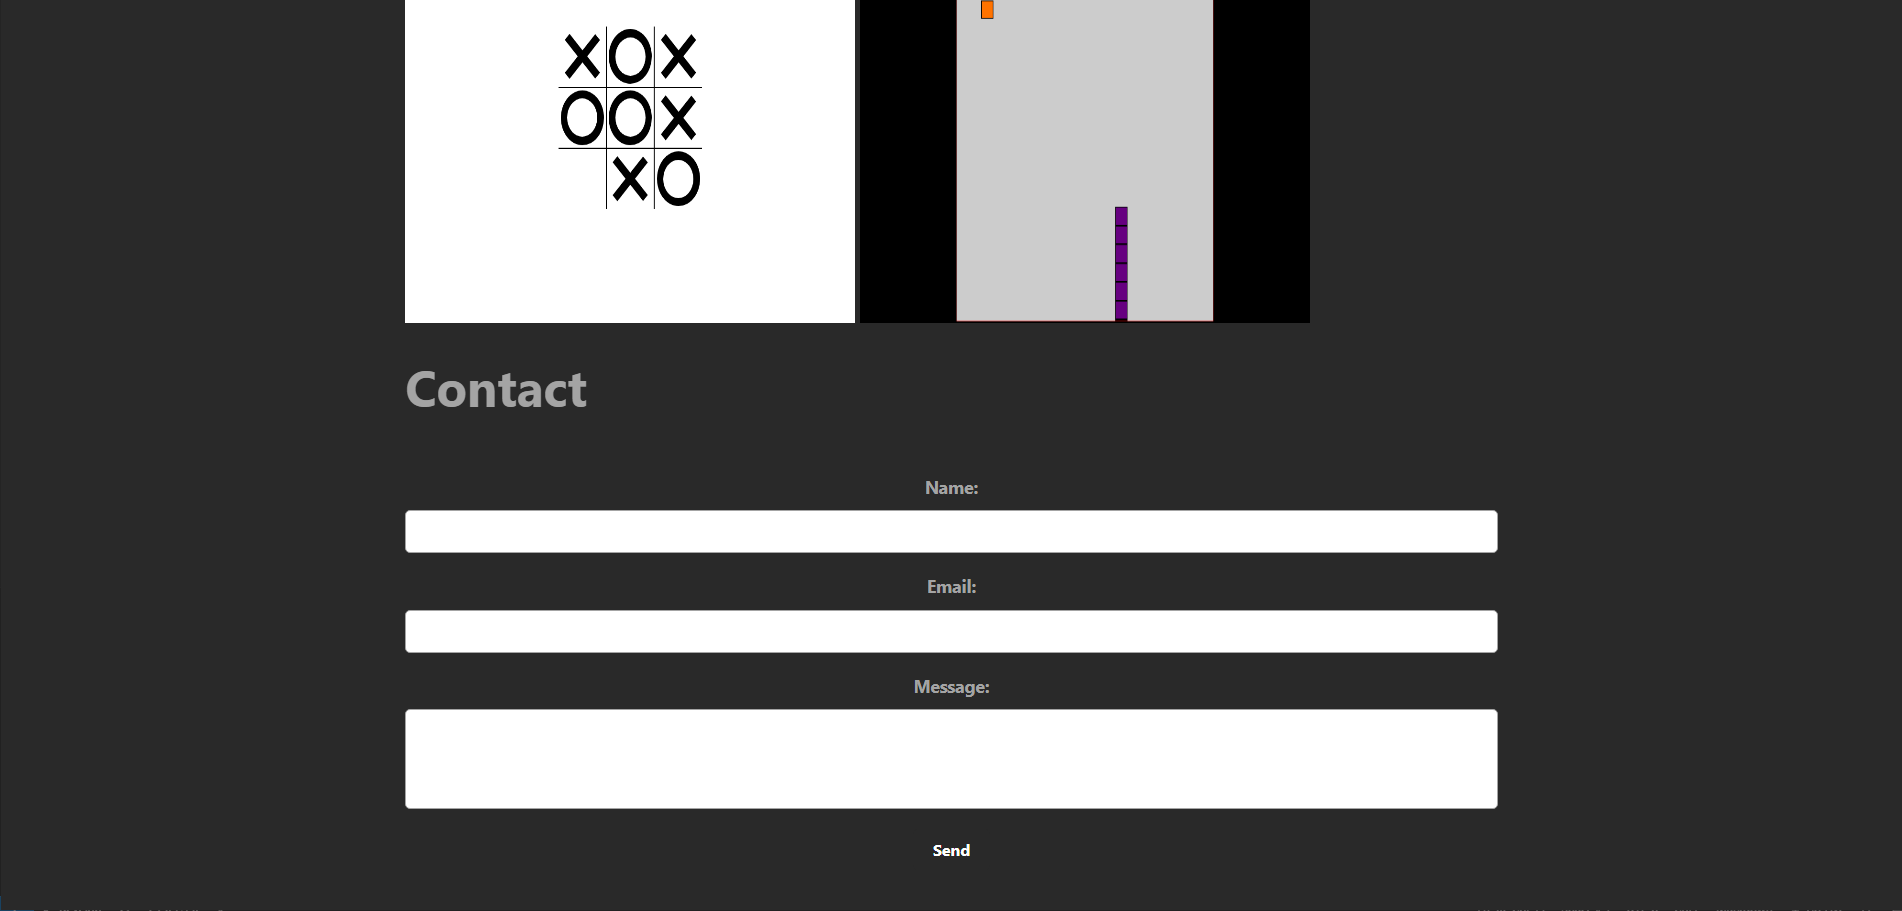
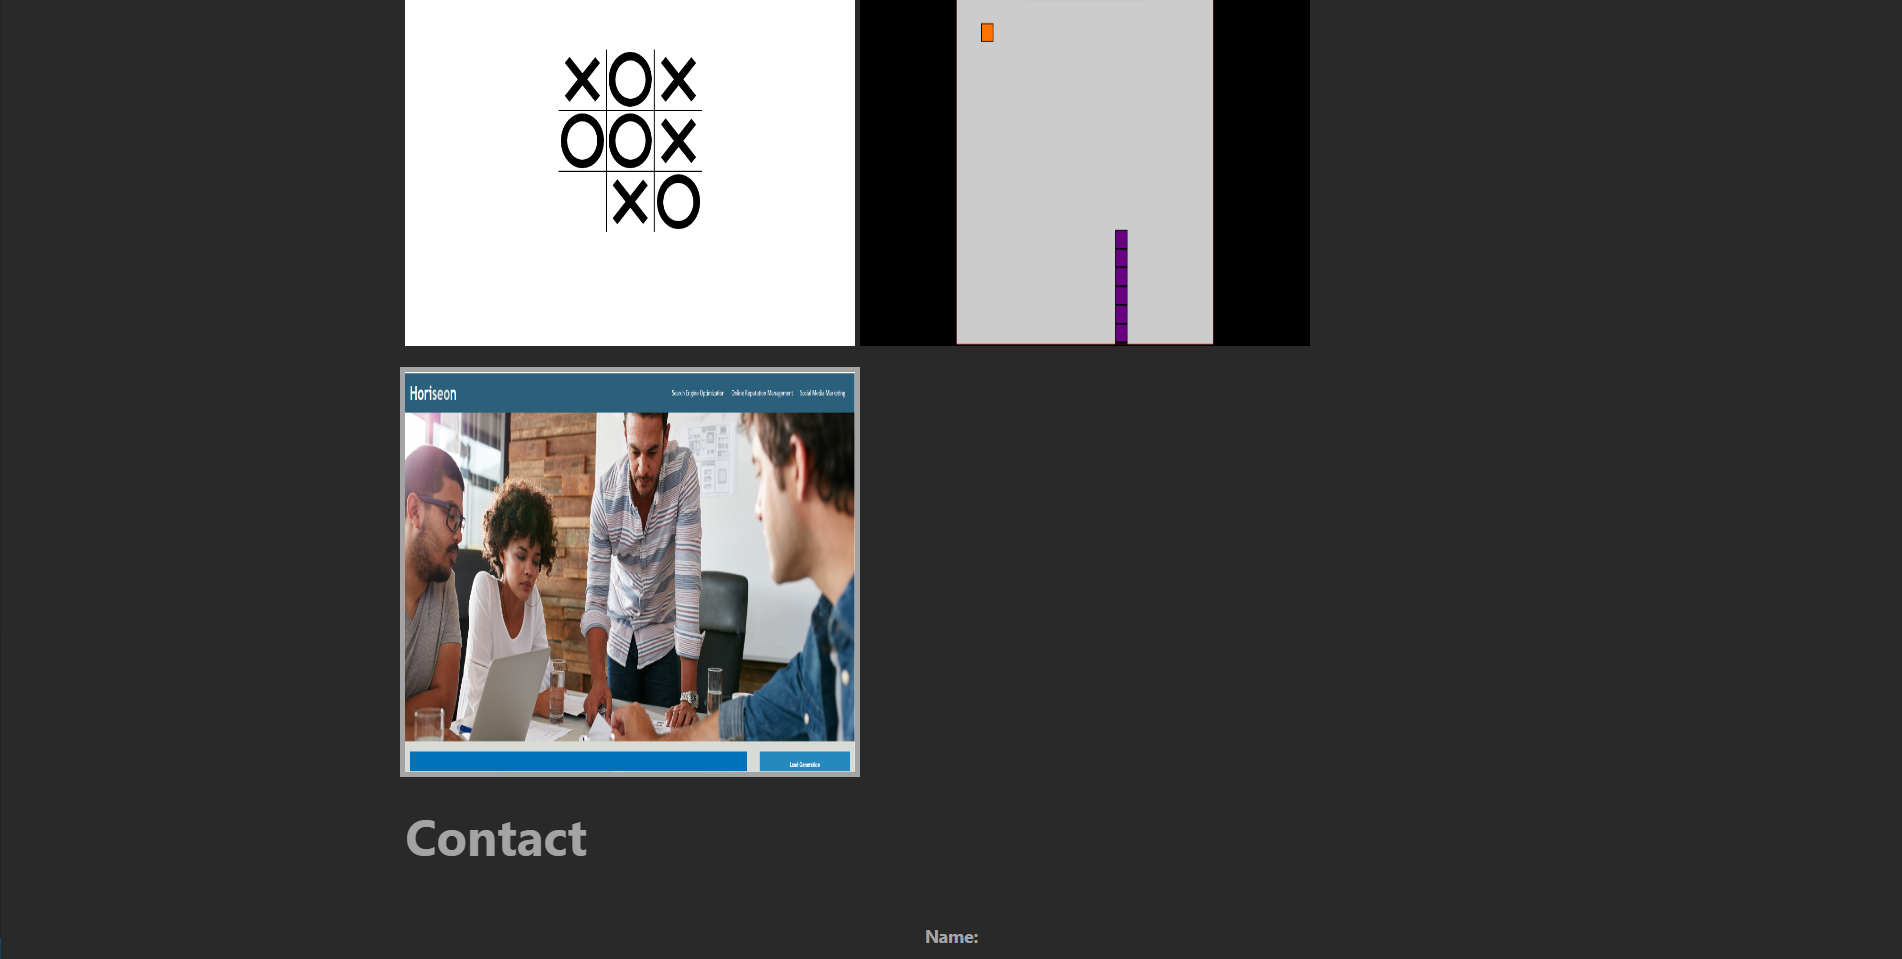
added links to readme

diff --git a/README.md b/README.md
@@ -7,6 +7,10 @@ you can view this page and click on the links to take you to desired spot
 
 ## links to page
 
-https://mckit77.github.io/portfolio/
+github pages link : https://mckit77.github.io/portfolio/
+
+github repo link : https://github.com/MCKIT77/portfolio
+
 ![Finished image -1](develop/assets/images/done-screenshot-portfolio.PNG)
 ![Finished image -2](develop/assets/images/done-screenshot-portfolio-2.PNG)
+![Finished image -3](develop/assets/images/done-screenshot-portfolio-3.PNG)
